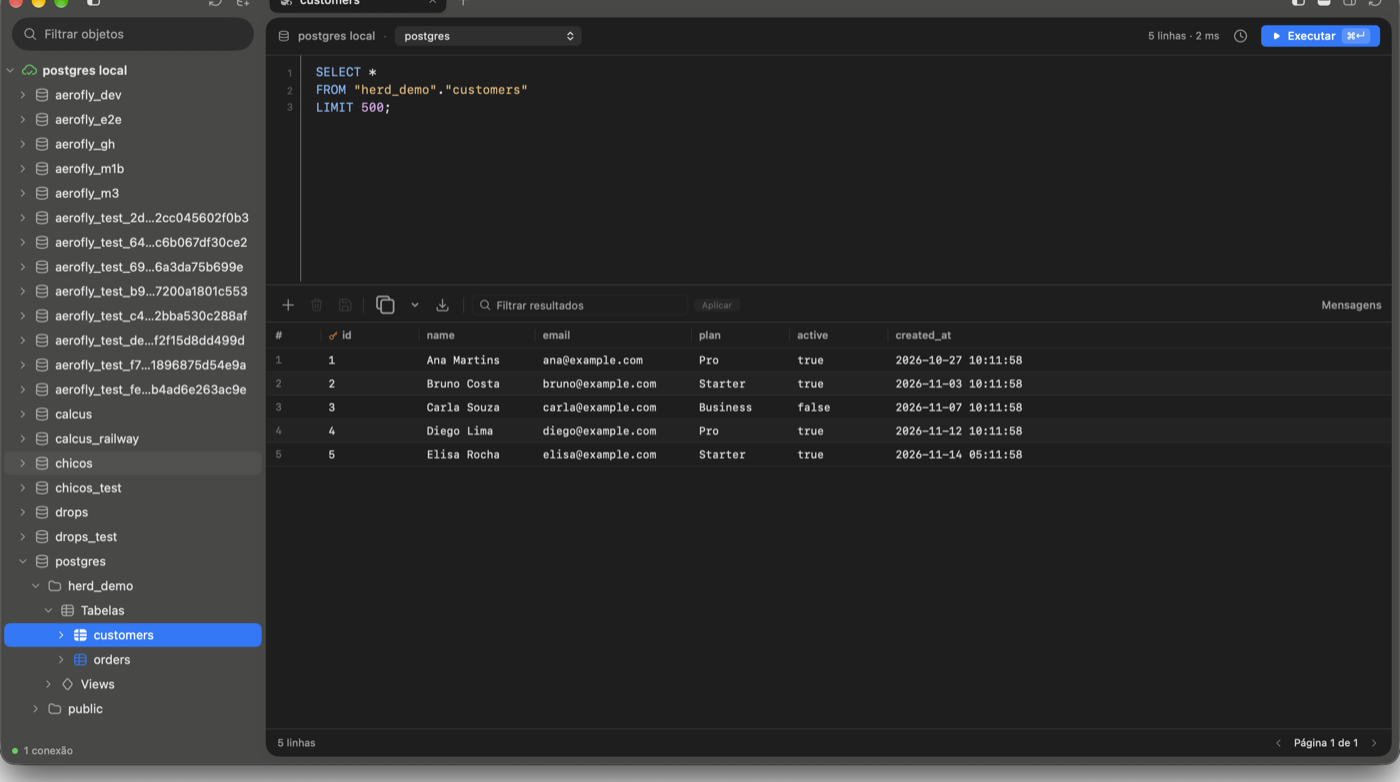
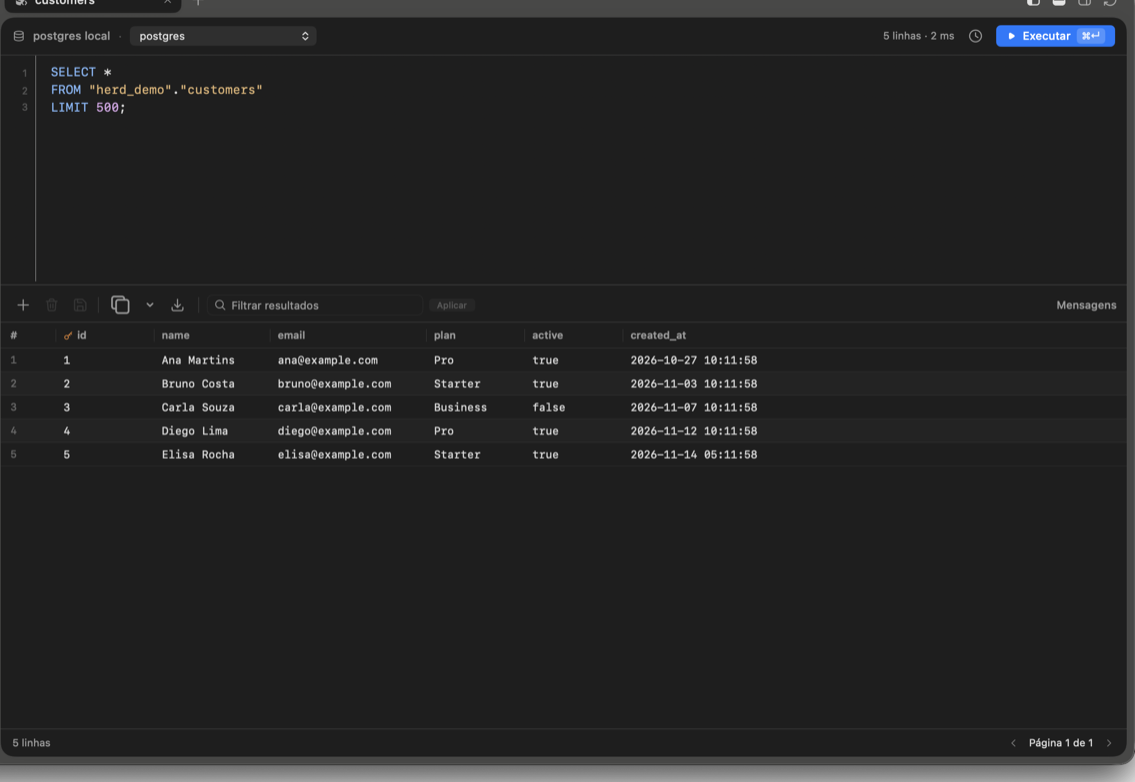
docs: showcase roadmap phases with sanitized screenshots

diff --git a/README.md b/README.md
@@ -7,7 +7,7 @@
 <p align="center">Explore schemas, escreva SQL com autocomplete e edite dados inline em um cliente PostgreSQL 100% nativo.</p>
 <p align="center">Nativo para macOS (SwiftUI + AppKit) &nbsp;·&nbsp; Interface em português &nbsp;·&nbsp; Senhas no Chaveiro</p>
 
-![Visão geral do Herd com árvore de objetos na barra lateral, editor SQL e grid de resultados](docs/screenshots/visao-geral.png)
+![Visão geral sanitizada do Herd com editor SQL e grid de resultados usando dados de demonstração](docs/screenshots/visao-geral.png)
 
 ## Tudo à mão. Sem sair do fluxo.
 
@@ -41,7 +41,7 @@ Cadastre servidores locais ou remotos em segundos, teste a conexão antes de sal
 
 ## Roadmap
 
-**Estado:** fases 1, 2, 3, 4, 5 e 7 concluídas; fase 6 em standby; fase 8 em polimento final; fase 9 planejada; fase 10 (diagrama ER) futura.
+**Estado:** fases 1, 2, 3, 4, 5 e 7 concluídas; fase 6 em standby; fase 8 em polimento final; fase 9 em desenvolvimento, com Safe Mode concluído e Abrir Qualquer Coisa ainda em construção; fase 10 (diagrama ER) futura.
 
 | Fase | Escopo                                             | Status             |
 | ---- | -------------------------------------------------- | ------------------ |
@@ -53,8 +53,68 @@ Cadastre servidores locais ou remotos em segundos, teste a conexão antes de sal
 | 6    | FreeTDS + SQL Server                               | ⏸ Standby         |
 | 7    | Backup/restore, novo banco e geração de scripts    | ✅ Concluída       |
 | 8    | Polimento, acessibilidade e empacotamento          | 🚧 Polimento final |
-| 9    | Safe Mode, ⌘P, console de log, processos, filtros e I/O | 📋 Planejada |
+| 9    | Safe Mode, ⌘P, console de log, processos, filtros e I/O | 🚧 Em desenvolvimento |
 | 10   | Diagrama ER                                        | 🔮 Futura          |
+
+## As 10 fases, em imagens
+
+As capturas abaixo usam exclusivamente uma base fictícia (`herd_demo`), nomes genéricos e dados de exemplo. Nenhum banco, host, usuário ou dado de produção aparece na documentação.
+
+### 1. Conecte com segurança e explore sem atrito
+
+A fundação do Herd já está pronta: cliente PostgreSQL nativo, conexões protegidas pelo Chaveiro do macOS e navegação sob demanda por bancos, schemas, tabelas, views e colunas.
+
+![Formulário de conexão PostgreSQL com host local e usuário fictício](docs/screenshots/conexoes.png)
+
+### 2. Consulte com a velocidade de uma ferramenta nativa
+
+O editor combina realce de sintaxe, execução de script, seleção ou comando atual, múltiplos resultados, cancelamento no servidor e histórico por conexão e banco.
+
+![Editor SQL executando uma consulta sobre dados fictícios](docs/screenshots/editor-consulta.png)
+
+### 3. Escreva menos SQL repetitivo
+
+Autocomplete contextual, aliases, schemas, snippets e scripts prontos de `SELECT`, `INSERT`, `UPDATE`, `DELETE` e DDL aceleram tarefas recorrentes sem tirar as mãos do teclado. A captura mostra o editor que recebe essas sugestões e abre os scripts gerados.
+
+![Editor SQL com realce de sintaxe e consulta gerada para a tabela de demonstração](docs/screenshots/visao-geral.png)
+
+### 4. Edite dados com controle
+
+O grid oferece paginação, ordenação e filtro no servidor, seleção em lote, cópia em TSV, exportação CSV e edição inline. Antes do commit, o Herd apresenta o SQL gerado e aplica tudo em uma única transação.
+
+![Grid de resultados com dados fictícios e ações rápidas de edição e exportação](docs/screenshots/editor-consulta.png)
+
+### 5. Entenda e evolua a estrutura
+
+Structure/DDL reúne colunas, índices e constraints, gera o `CREATE TABLE` completo e prepara alterações com preview. Wizards nativos cobrem tabela, schema, coluna, índice, regra, trigger e política RLS, sempre com revisão antes da execução.
+
+![Consulta e grid da base de demonstração usados como ponto de entrada para Structure e DDL](docs/screenshots/visao-geral.png)
+
+### 6. SQL Server — em standby
+
+A integração via FreeTDS continua no roadmap. Como ainda não existe uma experiência concluída para demonstrar, esta fase não usa captura de tela nem antecipa uma interface que o produto ainda não entrega.
+
+### 7. Operações de banco sem sair do Herd
+
+Backup e restore PostgreSQL usam `pg_dump`, `pg_restore` e `psql`, com progresso e log ao vivo. A fase também entrega criação de banco pela interface e geração de scripts SQL pelo menu da tabela.
+
+![Interface nativa do Herd com o banco de demonstração pronto para operações e scripts](docs/screenshots/visao-geral.png)
+
+### 8. Uma experiência feita para o Mac
+
+Tema claro/escuro, Liquid Glass, menus de contexto nativos, estados vazios e de erro, atalhos completos e distribuição em `.app`, `.dmg` e `.zip` fazem o Herd se comportar como parte do macOS — não como uma página web empacotada.
+
+![Interface escura nativa do Herd com editor e resultados na mesma janela](docs/screenshots/editor-consulta.png)
+
+### 9. Segurança diária já entregue; produtividade em evolução
+
+O Safe Mode já permite escolher entre execução silenciosa, confirmação antes de comandos sensíveis e proteção por senha ou Touch ID, além de marcar conexões de produção. **Abrir Qualquer Coisa (`⌘P`) ainda está em desenvolvimento**, assim como console, processos ao vivo e a próxima rodada de filtros e importação/exportação.
+
+![Configuração de Safe Mode e identificação de conexão de produção, sem dados reais](docs/screenshots/safe-mode.png)
+
+### 10. Diagrama ER — futura
+
+O diagrama entidade-relacionamento será construído sobre as PKs e FKs que o Herd já descobre. A fase ainda não tem interface pronta; por isso, não há mockup apresentado como produto concluído.
 
 ## Plano detalhado por fases
 
@@ -166,7 +226,7 @@ Cadastre servidores locais ou remotos em segundos, teste a conexão antes de sal
 - [ ] Revisão de acessibilidade
 - [ ] Notarização e distribuição
 
-### Fase 9 — Produtividade e segurança no dia a dia 📋 (Planejada)
+### Fase 9 — Produtividade e segurança no dia a dia 🚧 (Em desenvolvimento)
 
 Itens inspirados na documentação do TablePlus, em ordem de prioridade. Cada item é independente e cabe na arquitetura atual (sidebar, painel inferior, aba Processos, grid e editor).
 
